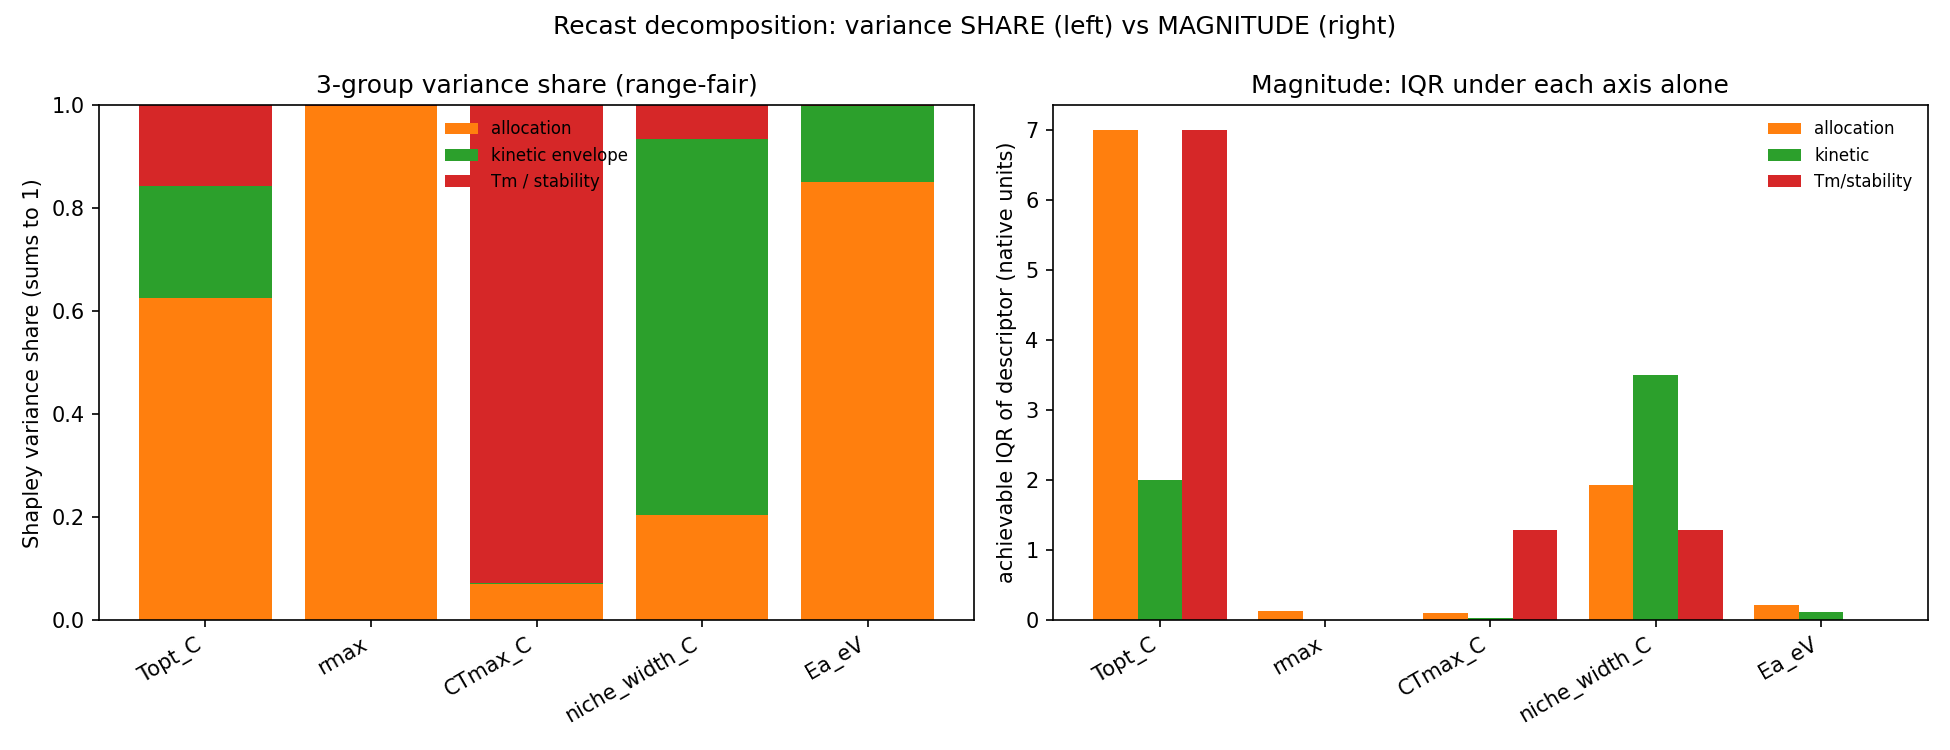
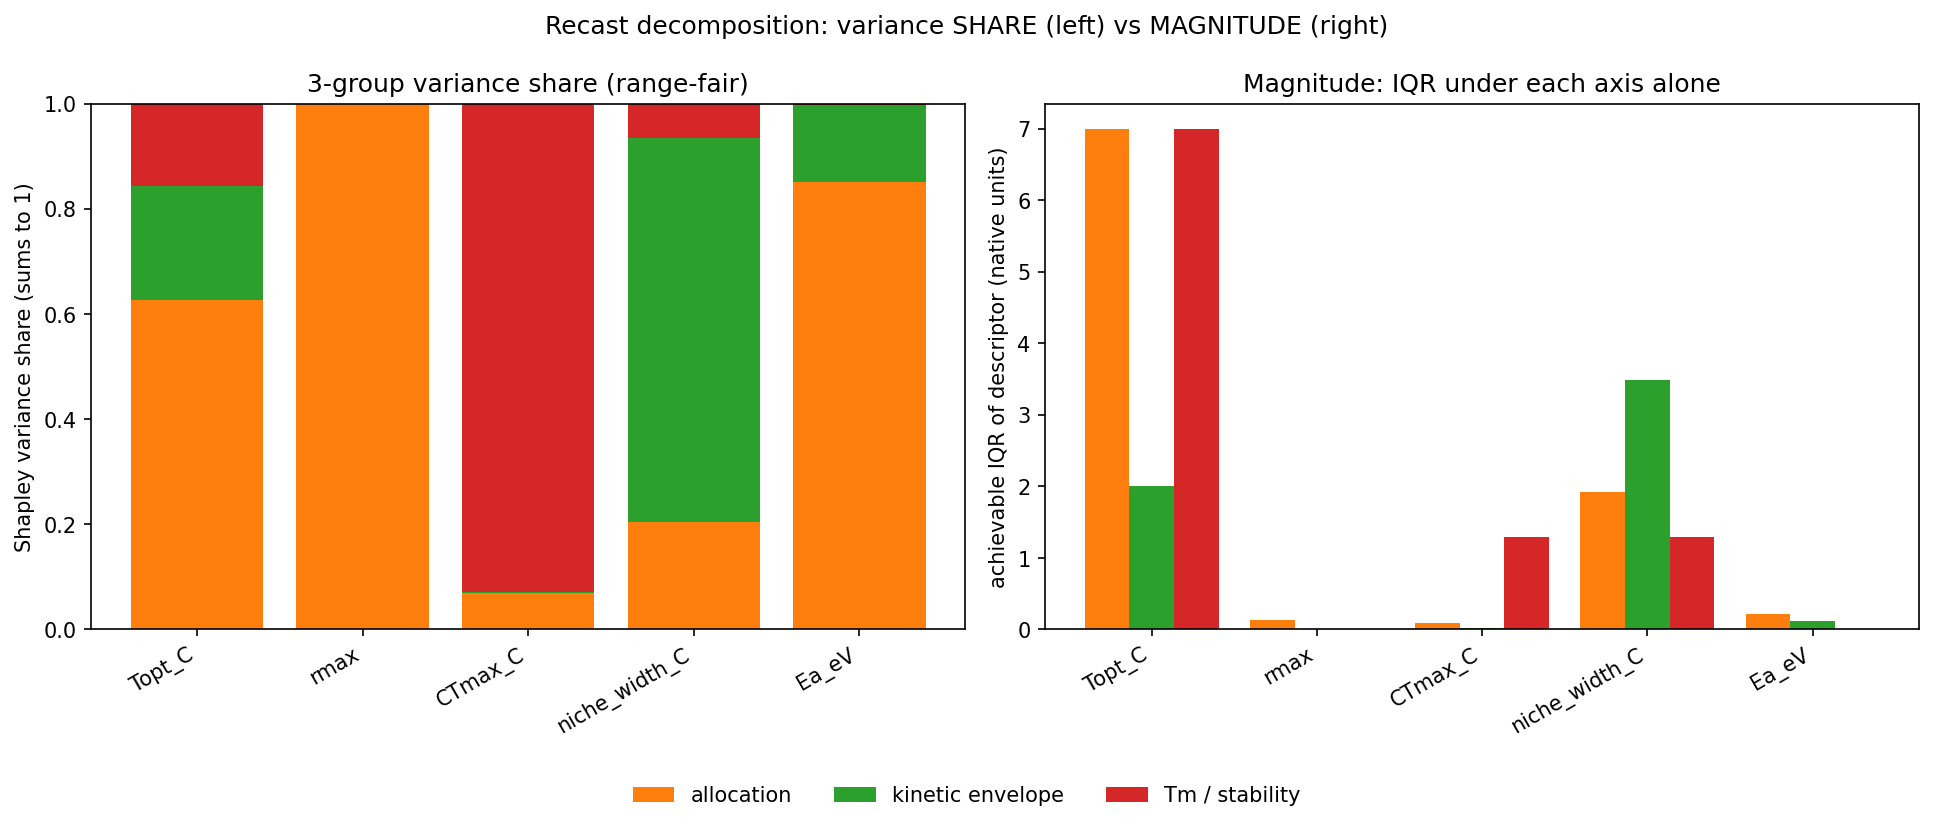
report: Tm in sensitivity figures (fix variance-figure legend overlap)
The dTm axis was already present in the elasticity heatmap/tornado; this fixes
the recast variance figure (Fig 10) where the per-panel legends overlapped the
bars (the rmax bar fills to 1.0). Replaces the two per-panel legends with one
shared legend anchored below both panels via bbox_to_anchor, so it never
overlaps the bars. Figure regenerated from saved outputs.

diff --git a/src/etcgem/decomposition.py b/src/etcgem/decomposition.py
@@ -644,33 +644,36 @@ def plot_recast_variance(res: RecastResult, out_dir, fname="recast_variance.png"
     large share on a negligible movement cannot masquerade as importance."""
     plt = _mpl()
     descs = [d for d in KEY_DESCRIPTORS if d in res.table.index]
-    fig, (axL, axR) = plt.subplots(1, 2, figsize=(13, 5))
+    fig, (axL, axR) = plt.subplots(1, 2, figsize=(13, 5.4))
     x = np.arange(len(descs))
+    colors = ["tab:orange", "tab:green", "tab:red"]
+    labels = ["allocation", "kinetic envelope", "Tm / stability"]
     pa = res.table.loc[descs, "phi_A3"].astype(float).values
     pk = res.table.loc[descs, "phi_kin"].astype(float).values
     ps = res.table.loc[descs, "phi_stab"].astype(float).values
-    axL.bar(x, pa, label="allocation", color="tab:orange")
-    axL.bar(x, pk, bottom=pa, label="kinetic envelope", color="tab:green")
-    axL.bar(x, ps, bottom=pa + pk, label="Tm / stability", color="tab:red")
+    handles = [axL.bar(x, pa, color=colors[0])[0],
+               axL.bar(x, pk, bottom=pa, color=colors[1])[0],
+               axL.bar(x, ps, bottom=pa + pk, color=colors[2])[0]]
     axL.set_xticks(x); axL.set_xticklabels(descs, rotation=30, ha="right")
     axL.set_ylabel("Shapley variance share (sums to 1)")
     axL.set_ylim(0, 1); axL.set_title("3-group variance share (range-fair)")
-    axL.legend(frameon=False, fontsize=8)
     w = 0.27
-    for off, ax_key, col, lab in ((-w, "IQR_allocation", "tab:orange", "allocation"),
-                                  (0.0, "IQR_kinetic", "tab:green", "kinetic"),
-                                  (w, "IQR_stability", "tab:red", "Tm/stability")):
+    for off, ax_key, col in ((-w, "IQR_allocation", colors[0]),
+                             (0.0, "IQR_kinetic", colors[1]),
+                             (w, "IQR_stability", colors[2])):
         vals = res.magnitude.loc[descs, ax_key].astype(float).values \
             if ax_key in res.magnitude.columns else np.zeros(len(descs))
-        axR.bar(x + off, vals, w, color=col, label=lab)
+        axR.bar(x + off, vals, w, color=col)
     axR.set_xticks(x); axR.set_xticklabels(descs, rotation=30, ha="right")
     axR.set_ylabel("achievable IQR of descriptor (native units)")
     axR.set_title("Magnitude: IQR under each axis alone")
-    axR.legend(frameon=False, fontsize=8)
+    # one shared legend, anchored BELOW both panels so it never overlaps the bars
+    fig.legend(handles, labels, loc="lower center", ncol=3, frameon=False,
+               bbox_to_anchor=(0.5, -0.02))
     fig.suptitle("Recast decomposition: variance SHARE (left) vs MAGNITUDE (right)")
-    fig.tight_layout()
+    fig.tight_layout(rect=(0, 0.06, 1, 1))
     p = os.path.join(out_dir, fname)
-    fig.savefig(p, dpi=150); plt.close(fig)
+    fig.savefig(p, dpi=150, bbox_inches="tight"); plt.close(fig)
     return p
 
 